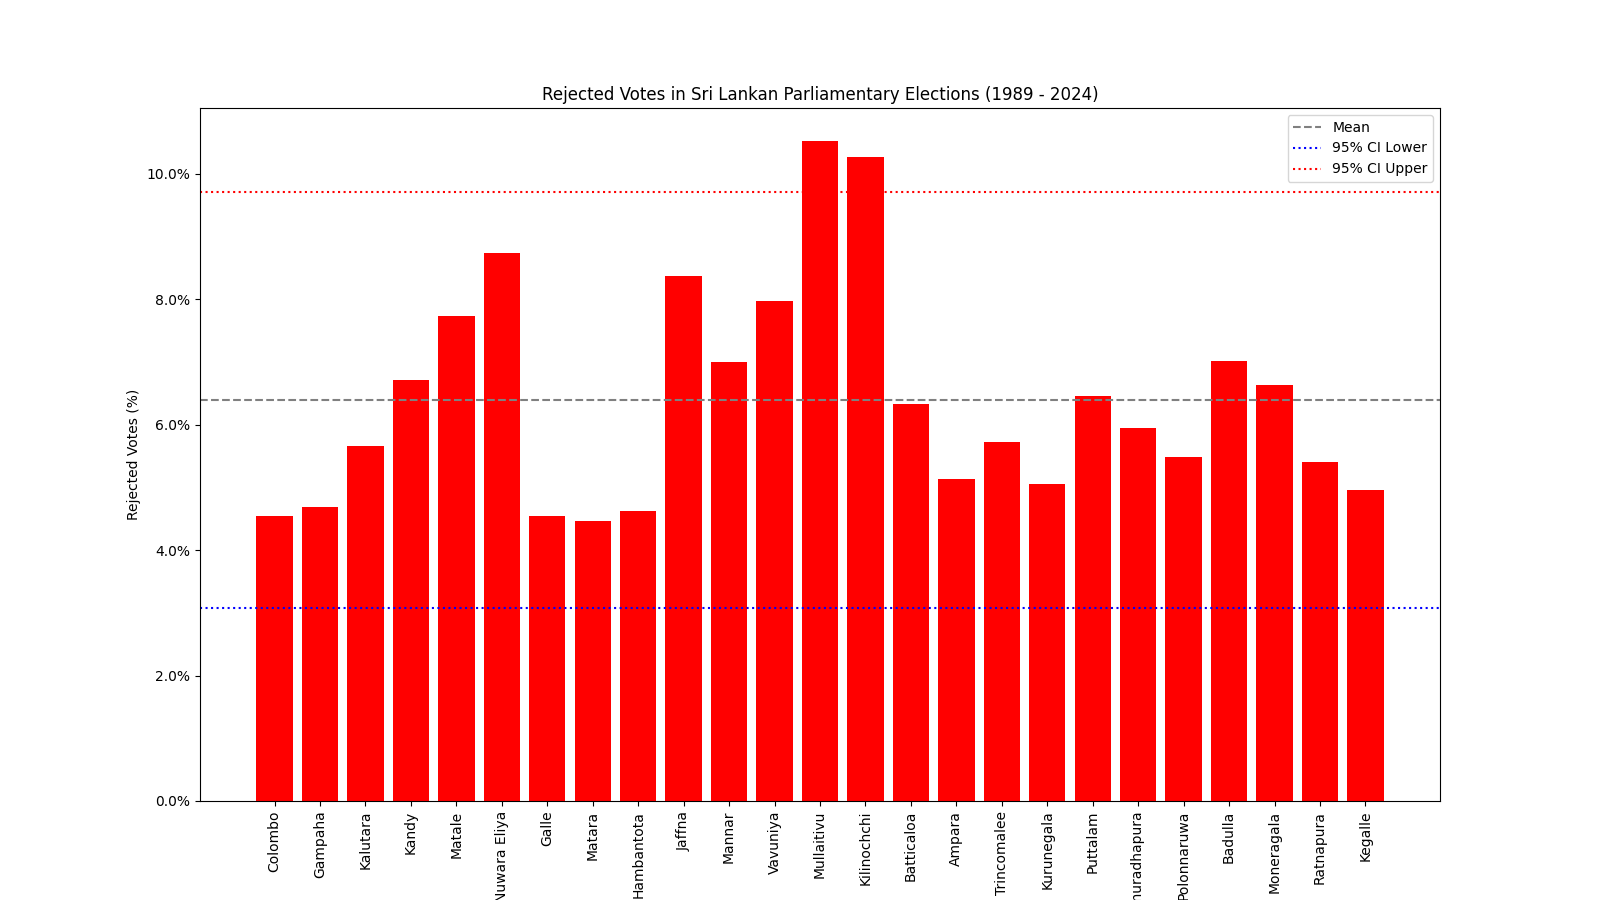
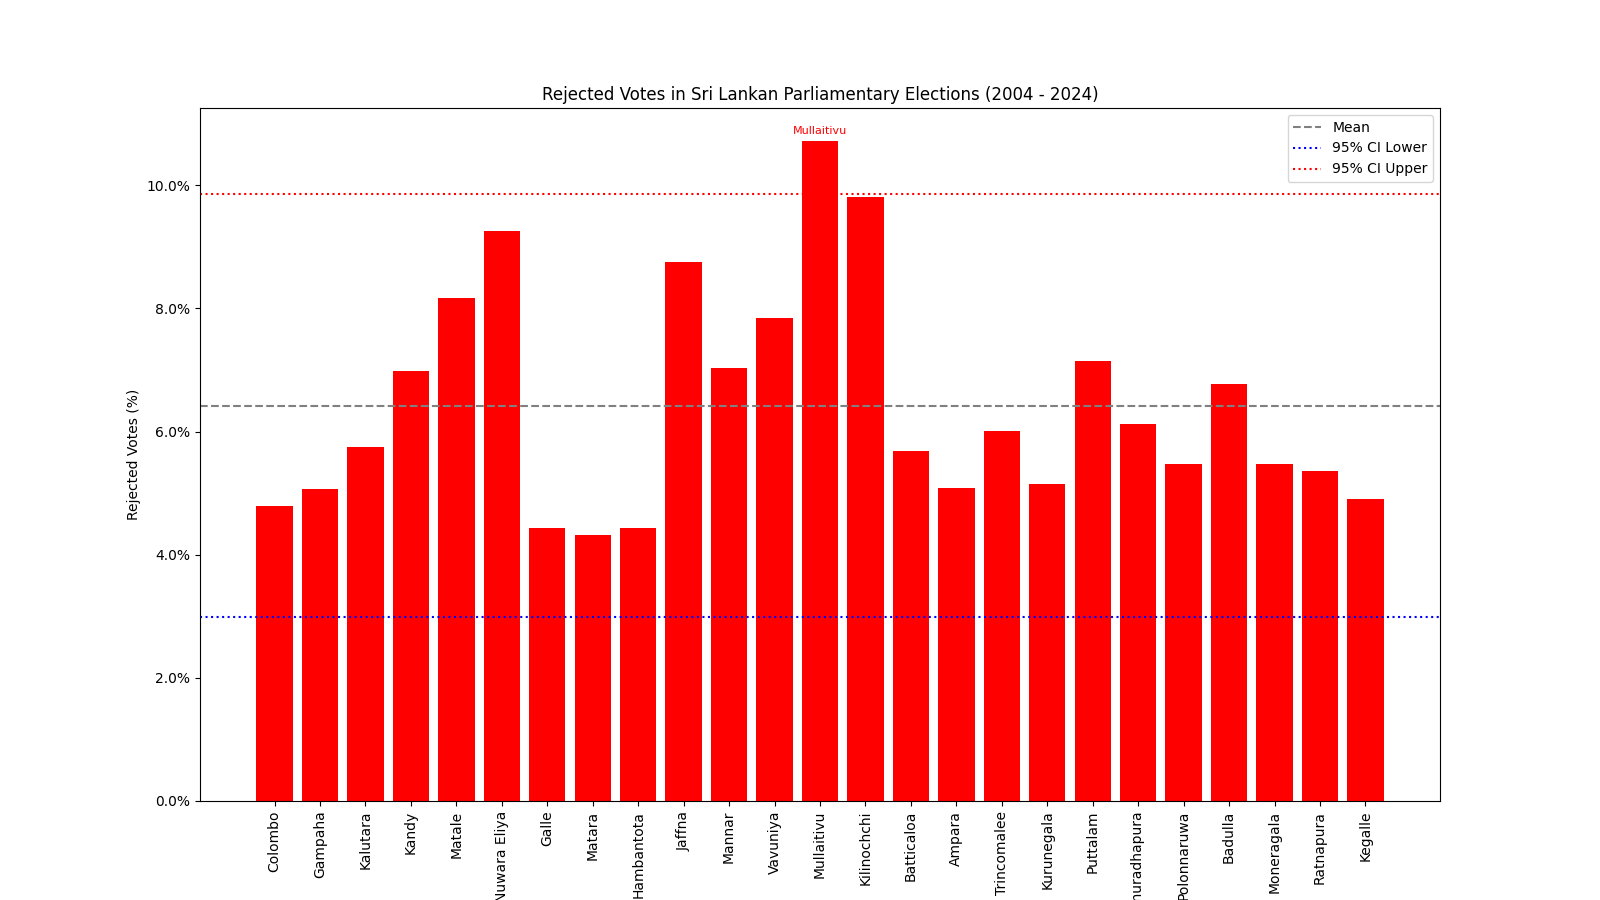
Refactor plot_bars function to include elections parameter; enhance title with election year range and annotate bars exceeding confidence interval

diff --git a/examples/rejected_votes/__main__.py b/examples/rejected_votes/__main__.py
@@ -11,7 +11,7 @@ from elections_lk import ElectionParliamentary
 log = Log(os.path.basename(os.path.dirname(__file__)))
 
 
-def plot_bars(x_label, x_items, p_rejected):
+def plot_bars(elections, x_label, x_items, p_rejected):
 
     mean_p_rejected = np.mean(p_rejected)
     std_p_rejected = np.std(p_rejected)
@@ -33,8 +33,27 @@ def plot_bars(x_label, x_items, p_rejected):
         linestyle=":",
         label="95% CI Upper",
     )
+
+    # Annotate bars that exceed the upper confidence interval
+    for i, (x_item, p_rej) in enumerate(zip(x_items, p_rejected)):
+        if p_rej > ci_upper:
+            plt.annotate(
+                f"{x_item}",
+                xy=(x_item, p_rej),
+                xytext=(0, 5),
+                textcoords="offset points",
+                ha="center",
+                fontsize=8,
+                color="red",
+            )
+    election_years = [election.year for election in elections]
+    min_election_year = min(election_years)
+    max_election_year = max(election_years)
+    elections_label = f"({min_election_year} - {max_election_year})"
+
     plt.title(
-        "Rejected Votes in Sri Lankan Parliamentary Elections (1989 - 2024)"
+        "Rejected Votes"
+        + f" in Sri Lankan Parliamentary Elections {elections_label}"
     )
     plt.xlabel(x_label)
     plt.ylabel("Rejected Votes (%)")
@@ -61,6 +80,7 @@ def q1(elections):
         p_rejected.append(vote_summary.p_rejected)
 
     plot_bars(
+        elections,
         "Election Year",
         years,
         p_rejected,
@@ -83,7 +103,7 @@ def q2(elections, ent_type):
         mean_p_rejected_for_ent = p_sum_rejected / p_sum_polled
         p_rejected_for_ents.append(mean_p_rejected_for_ent)
 
-    plot_bars(ent_type.name.title(), ent_names, p_rejected_for_ents)
+    plot_bars(elections, ent_type.name.title(), ent_names, p_rejected_for_ents)
 
 
 if __name__ == "__main__":
@@ -91,7 +111,7 @@ if __name__ == "__main__":
         election
         for election in ElectionParliamentary.list_all()
         if election.year != "2000"
-    ]
+    ][-5:]
     q1(elections)
     q2(elections, EntType.DISTRICT)
     q2(elections, EntType.PD)
